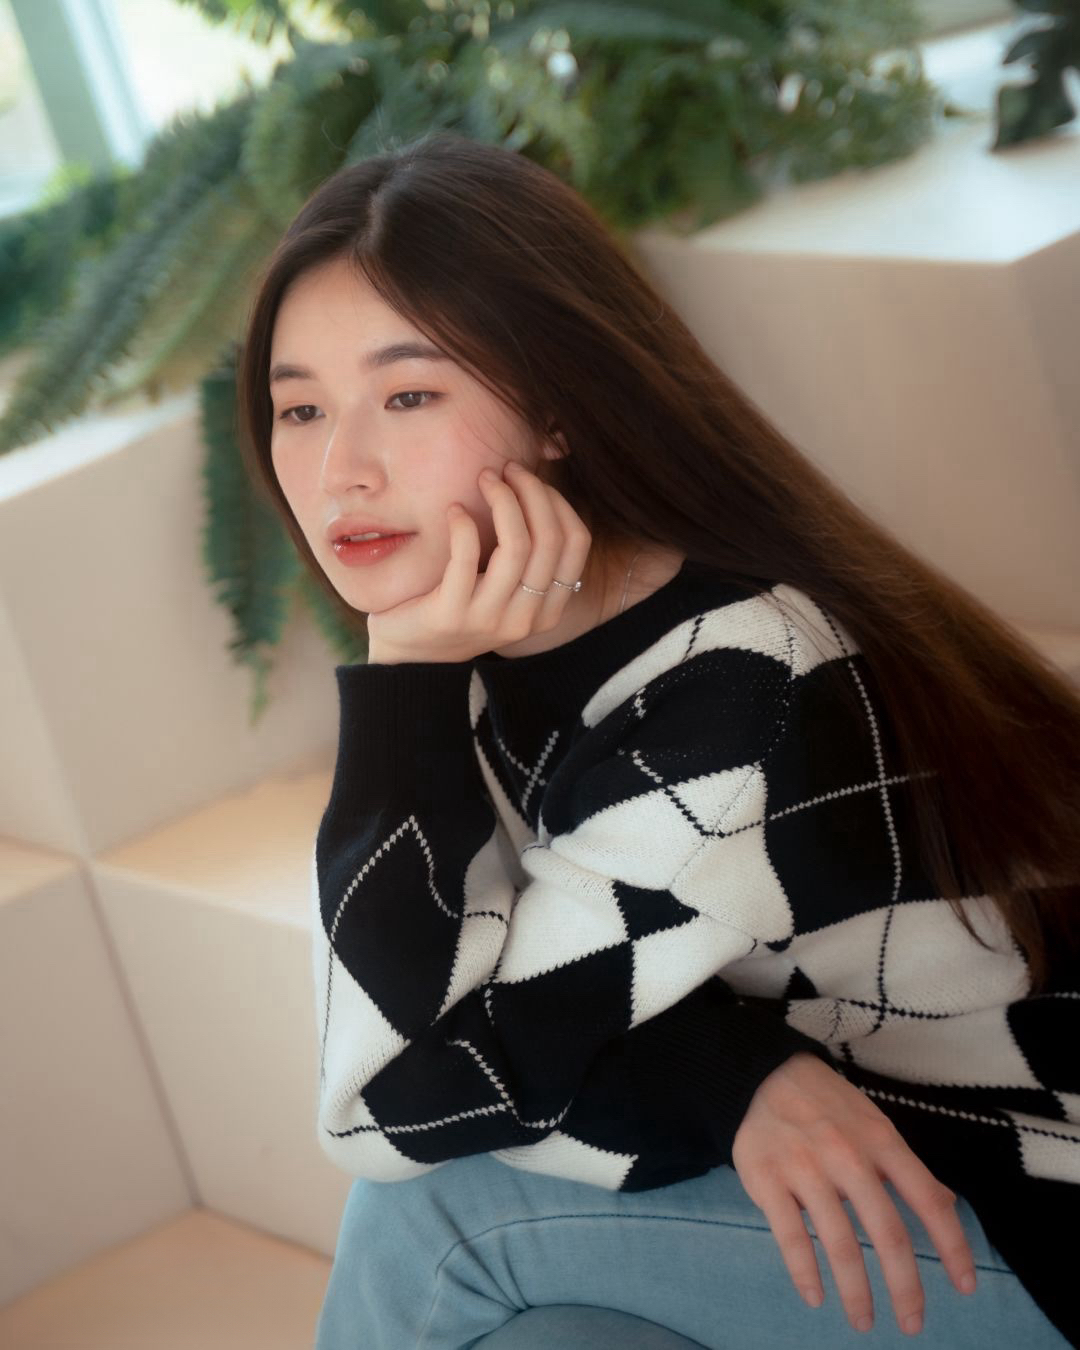
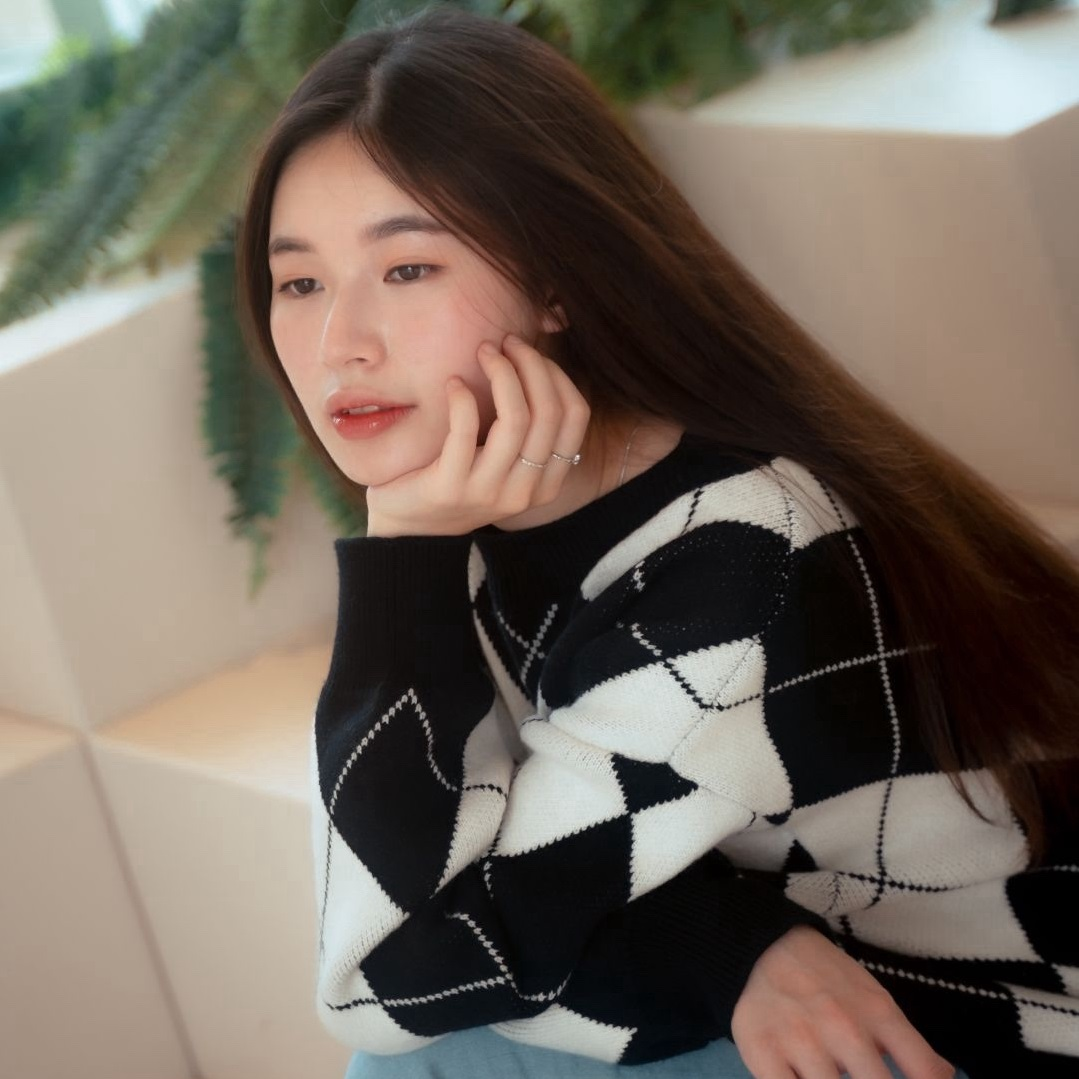
修改照片比例&Lillian名稱顯示

diff --git a/index.html b/index.html
@@ -283,7 +283,7 @@
         <img src="lillian.jpg" alt="profile A" class="profile-img">
       </div>
       <div class="text-content">
-        <span>莉恩</span>
+        <span>Lillian</span>
       </div>
       <div class="social-icons">
         <a href="https://www.instagram.com/4.iiouk/" target="_blank"><img src="./ig.png"></a>
